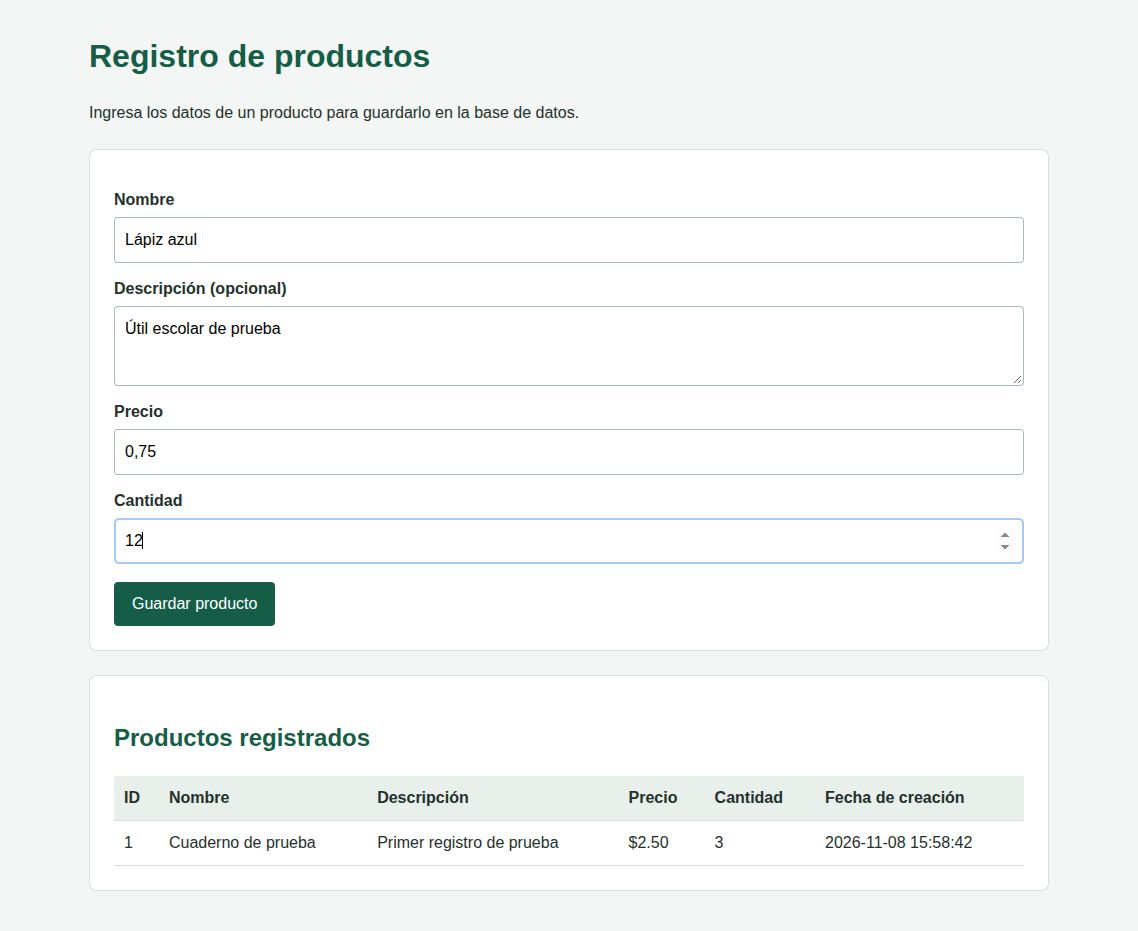
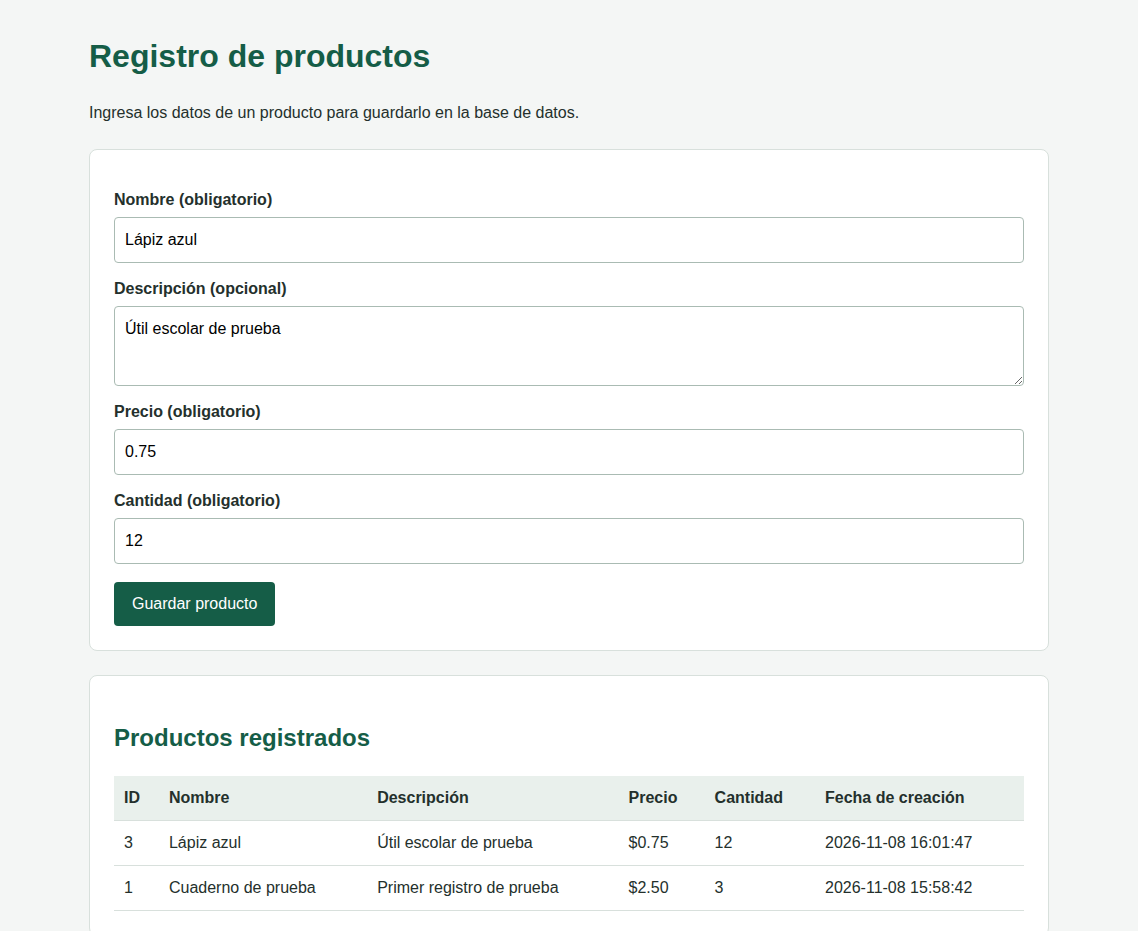
fix: señalar campos obligatorios y actualizar capturas

diff --git a/public/index.php b/public/index.php
@@ -94,16 +94,16 @@ try {
         <?php endif; ?>
 
         <form method="post" action="/">
-            <label for="nombre">Nombre</label>
+            <label for="nombre">Nombre (obligatorio)</label>
             <input id="nombre" name="nombre" type="text" maxlength="120" required value="<?= escapar($nombre) ?>">
 
             <label for="descripcion">Descripción (opcional)</label>
             <textarea id="descripcion" name="descripcion" maxlength="500"><?= escapar($descripcion) ?></textarea>
 
-            <label for="precio">Precio</label>
+            <label for="precio">Precio (obligatorio)</label>
             <input id="precio" name="precio" type="number" min="0" max="99999999.99" step="0.01" required value="<?= escapar($precio) ?>">
 
-            <label for="cantidad">Cantidad</label>
+            <label for="cantidad">Cantidad (obligatorio)</label>
             <input id="cantidad" name="cantidad" type="number" min="0" max="4294967295" step="1" required value="<?= escapar($cantidad) ?>">
 
             <button type="submit">Guardar producto</button>
